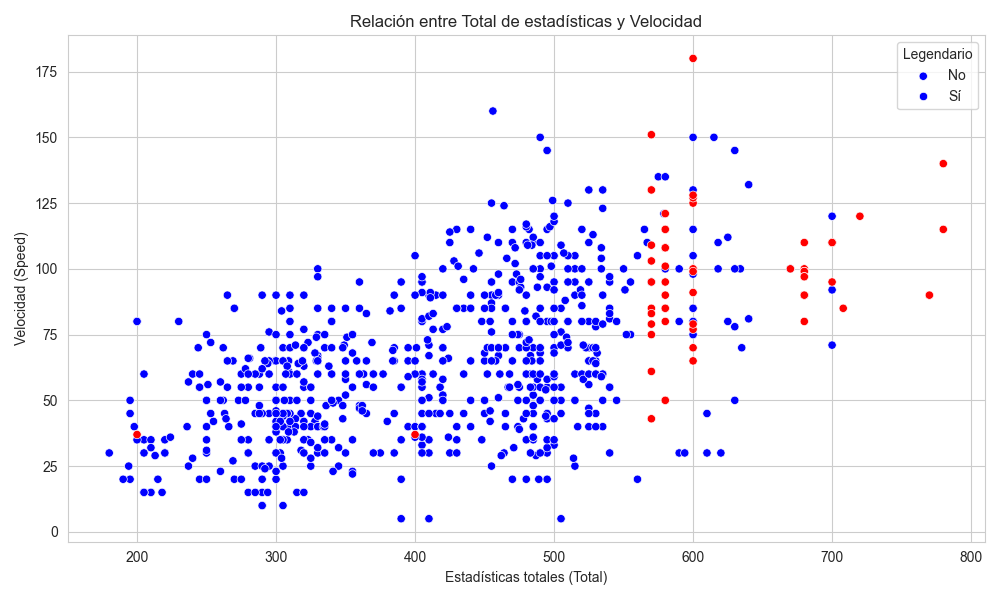
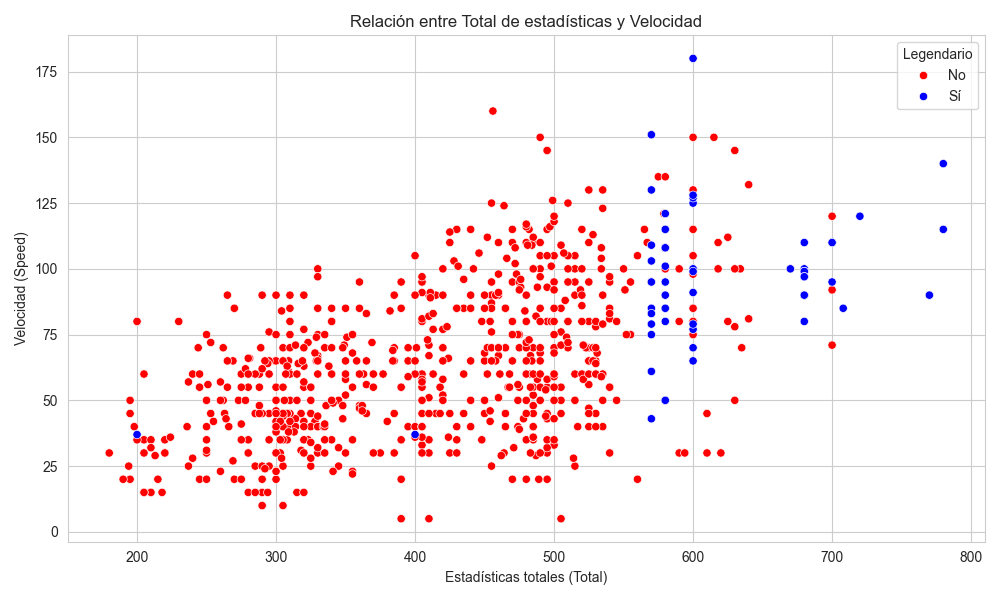
colors fixed

diff --git a/reto-final.py b/reto-final.py
@@ -21,13 +21,25 @@ plt.savefig("pokemons_por_generacion.png")
 plt.show()
 
 # Gráfico 2
+
+# He tenido que hacer el map para que a la hora de mostrar la leyenda
+# puesta manualmente salagan ambos colores
+
+df['is_legendary'] = df['is_legendary'].map({0: "No", 1: "Sí"})
+
 plt.figure(figsize=(10,6))
-sns.scatterplot(data=df, x='Total', y='speed', hue='is_legendary', 
-                palette={0: "blue", 1: "red"})
+sns.scatterplot(
+    data=df,
+    x='Total',
+    y='speed',
+    hue='is_legendary',
+    palette={"No": "red", "Sí": "blue"}
+)
+
 plt.title("Relación entre Total de estadísticas y Velocidad")
 plt.xlabel("Estadísticas totales (Total)")
 plt.ylabel("Velocidad (Speed)")
-plt.legend(title="Legendario", labels=['No', 'Sí'])
+plt.legend(title="Legendario")
 plt.tight_layout()
 plt.savefig("total_vs_speed_legendary.png")
 plt.show()
